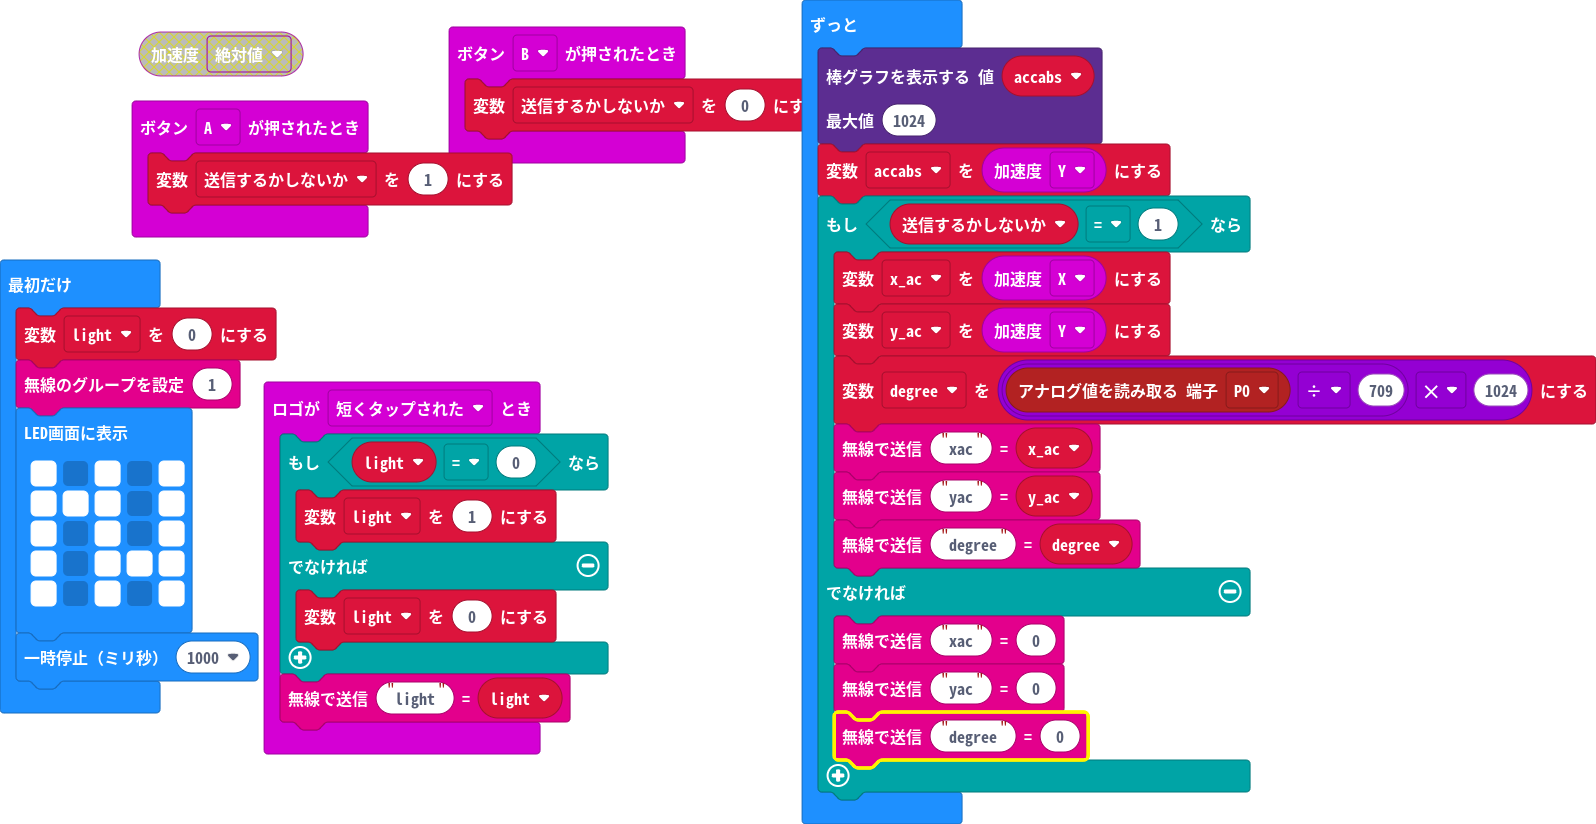
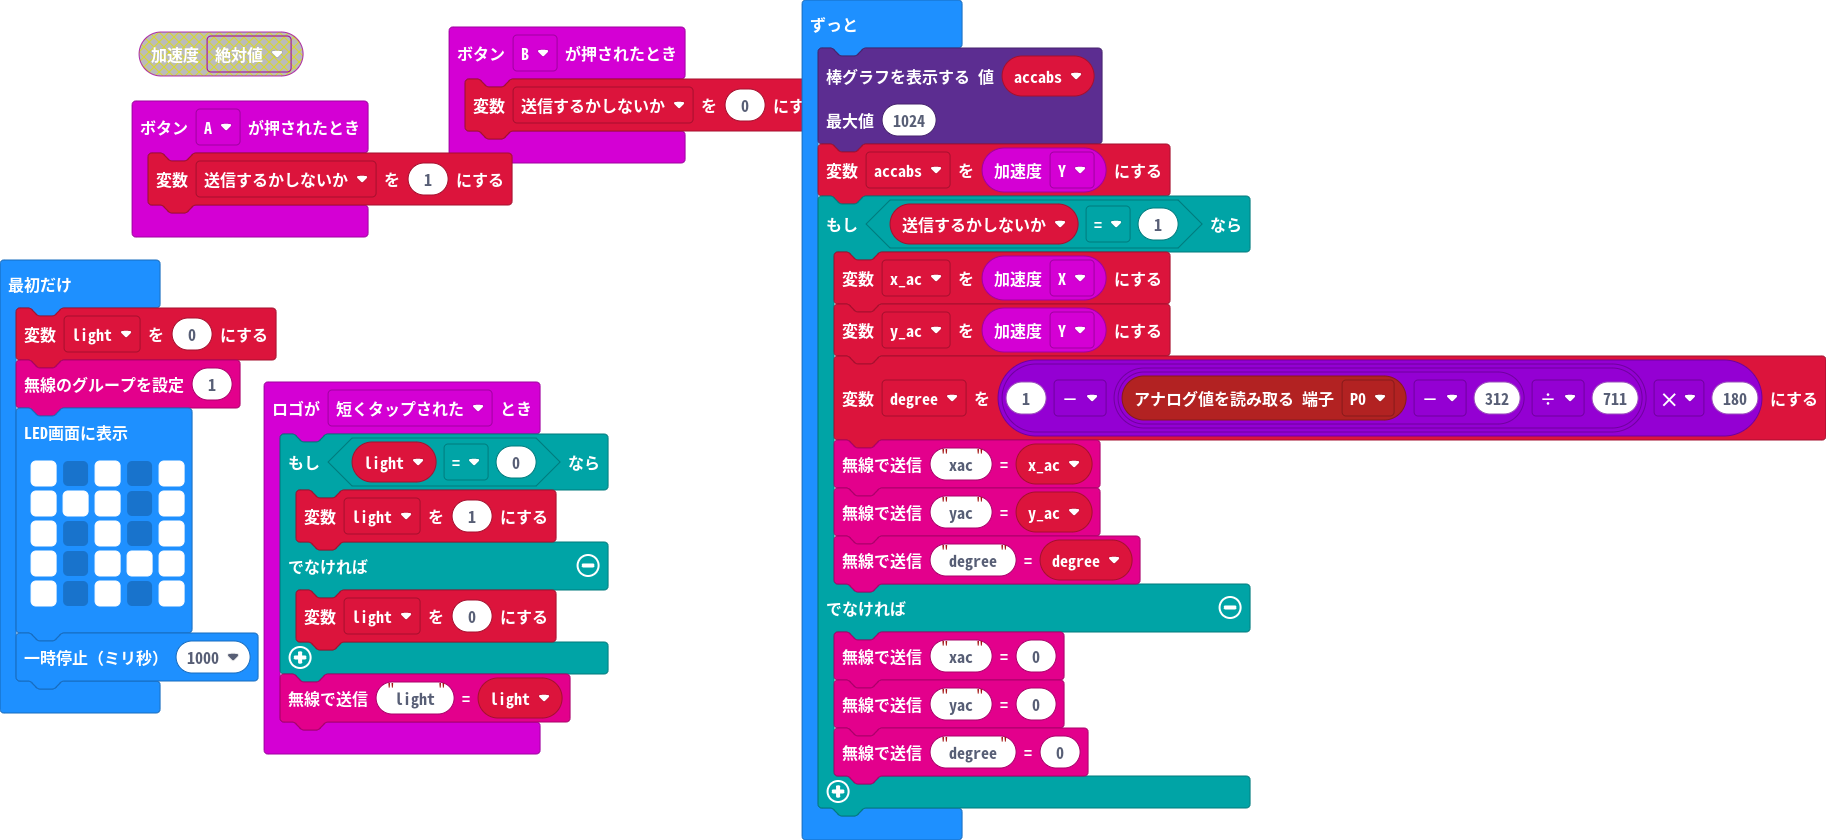
ポテンショメーターの最低最大値で角度を調整

diff --git a/main.ts b/main.ts
@@ -37,7 +37,7 @@ basic.forever(function () {
     if (送信するかしないか == 1) {
         x_ac = input.acceleration(Dimension.X)
         y_ac = input.acceleration(Dimension.Y)
-        degree = pins.analogReadPin(AnalogPin.P0) / 709 * 1024
+        degree = (1 - (pins.analogReadPin(AnalogPin.P0) - 312) / 711) * 180
         radio.sendValue("xac", x_ac)
         radio.sendValue("yac", y_ac)
         radio.sendValue("degree", degree)
